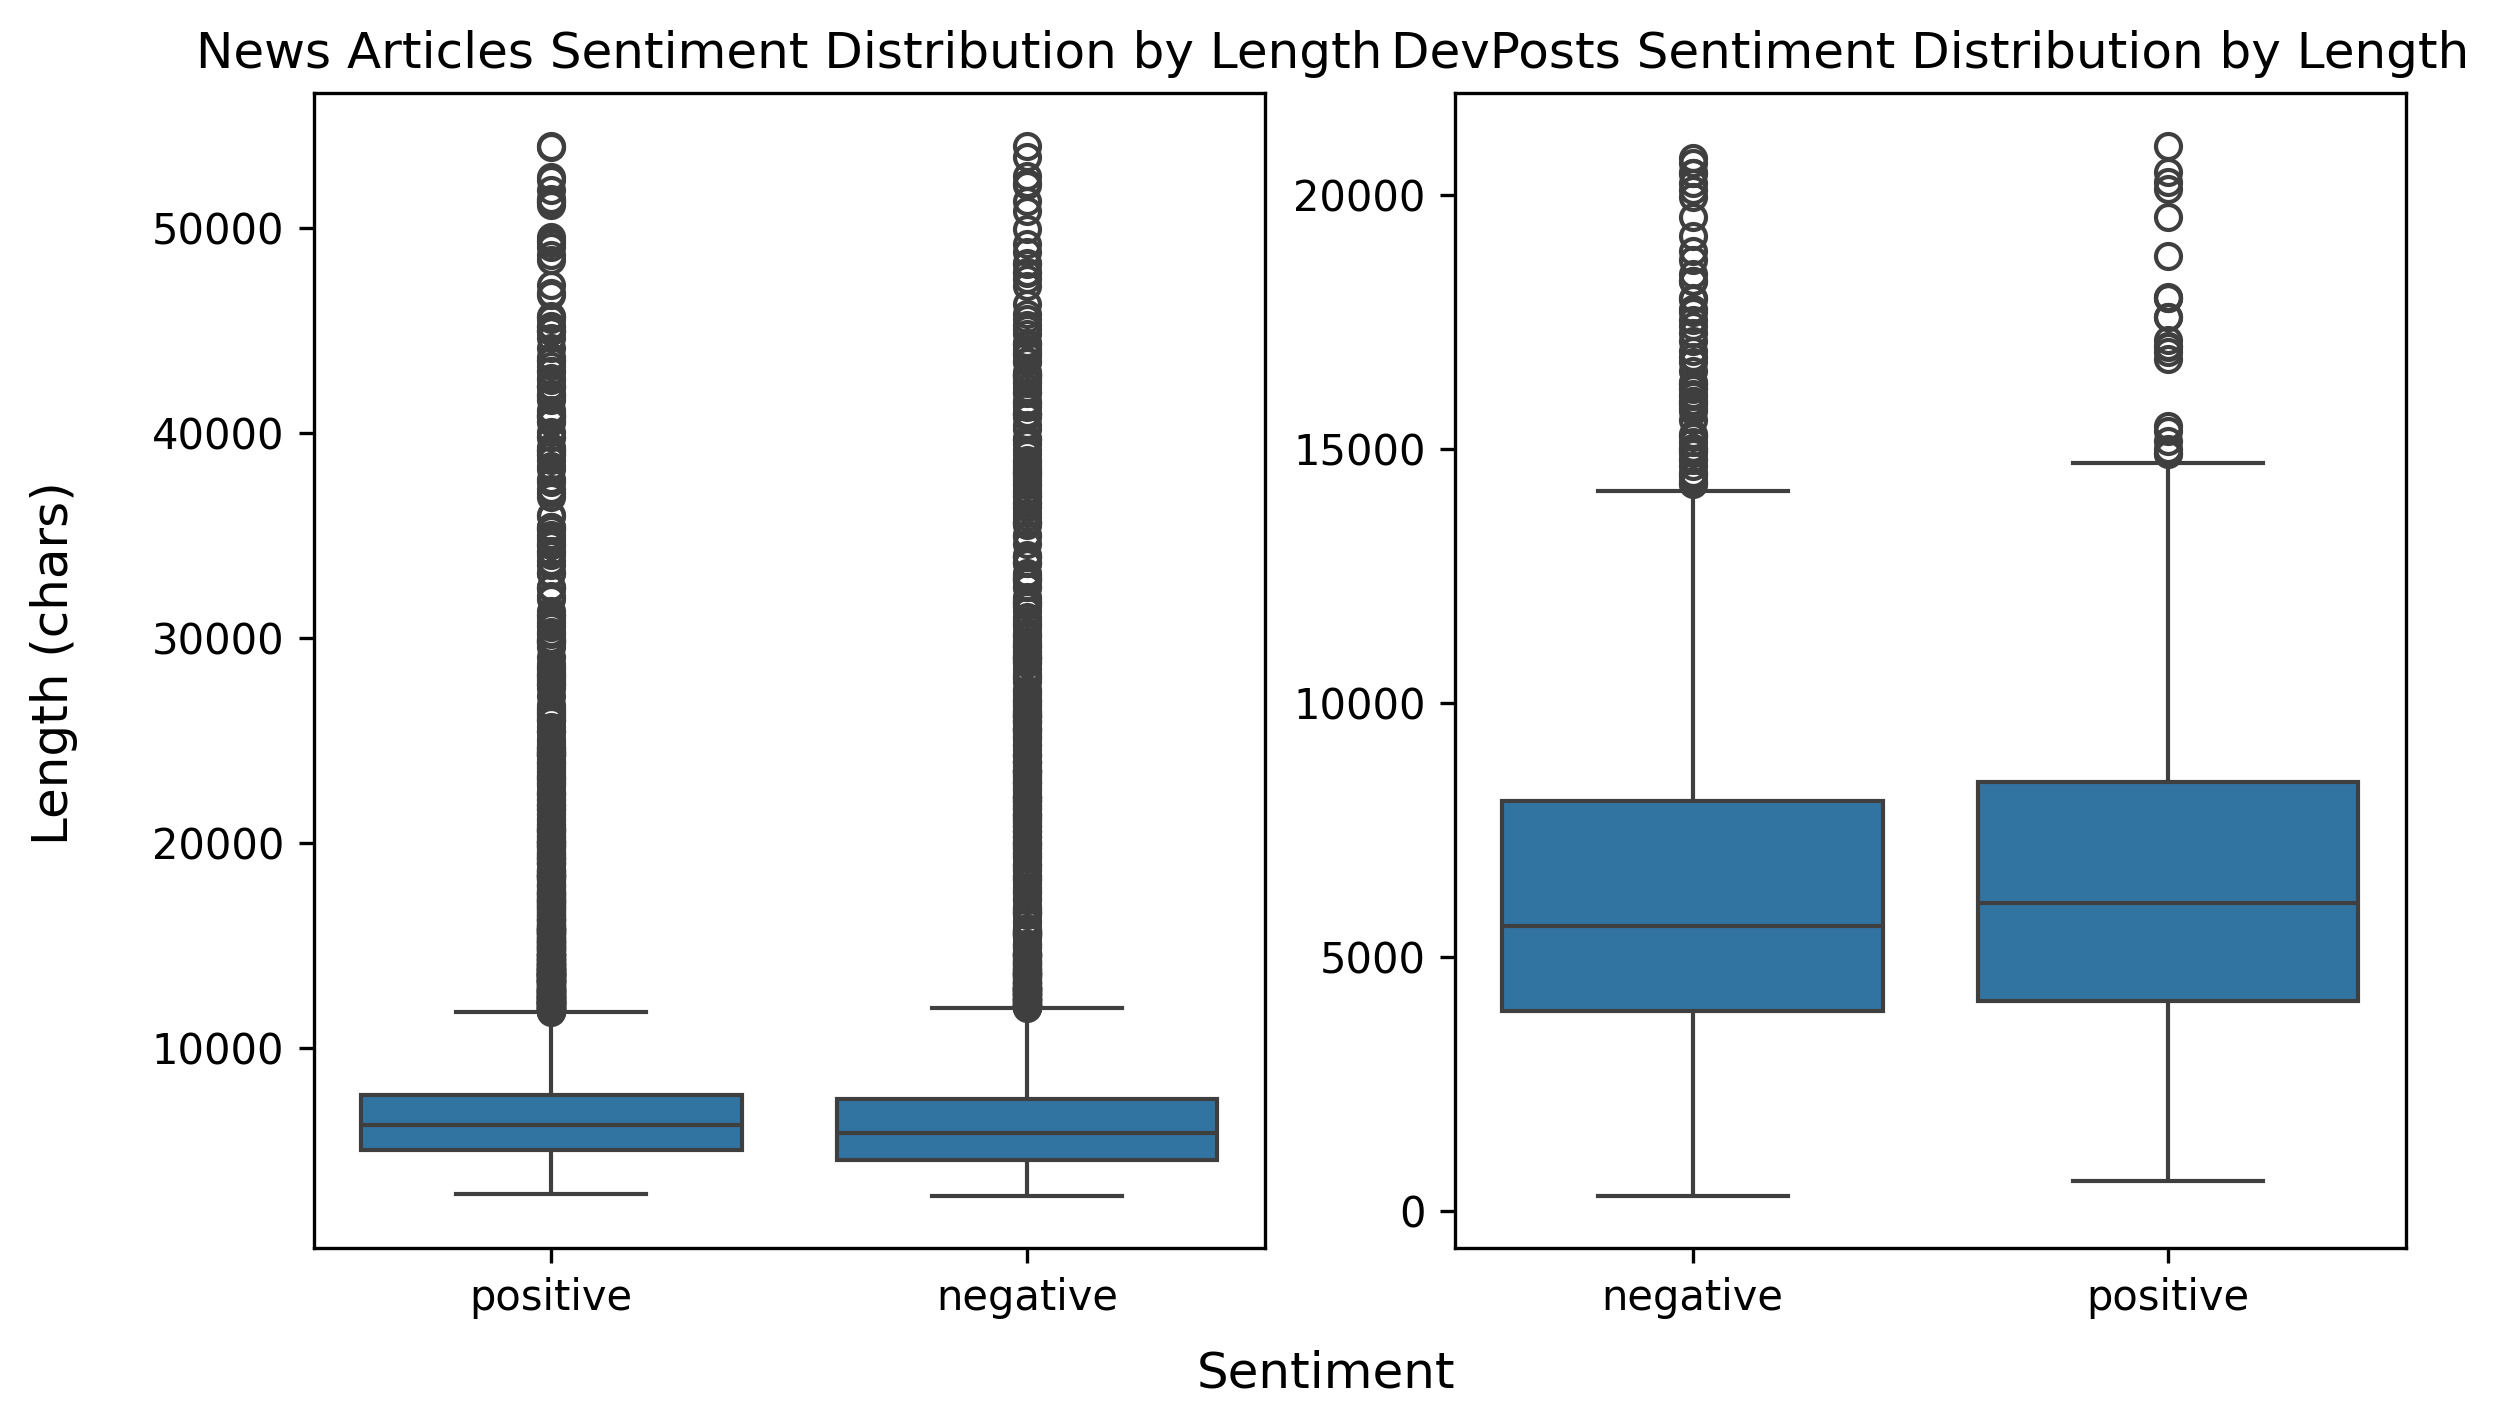
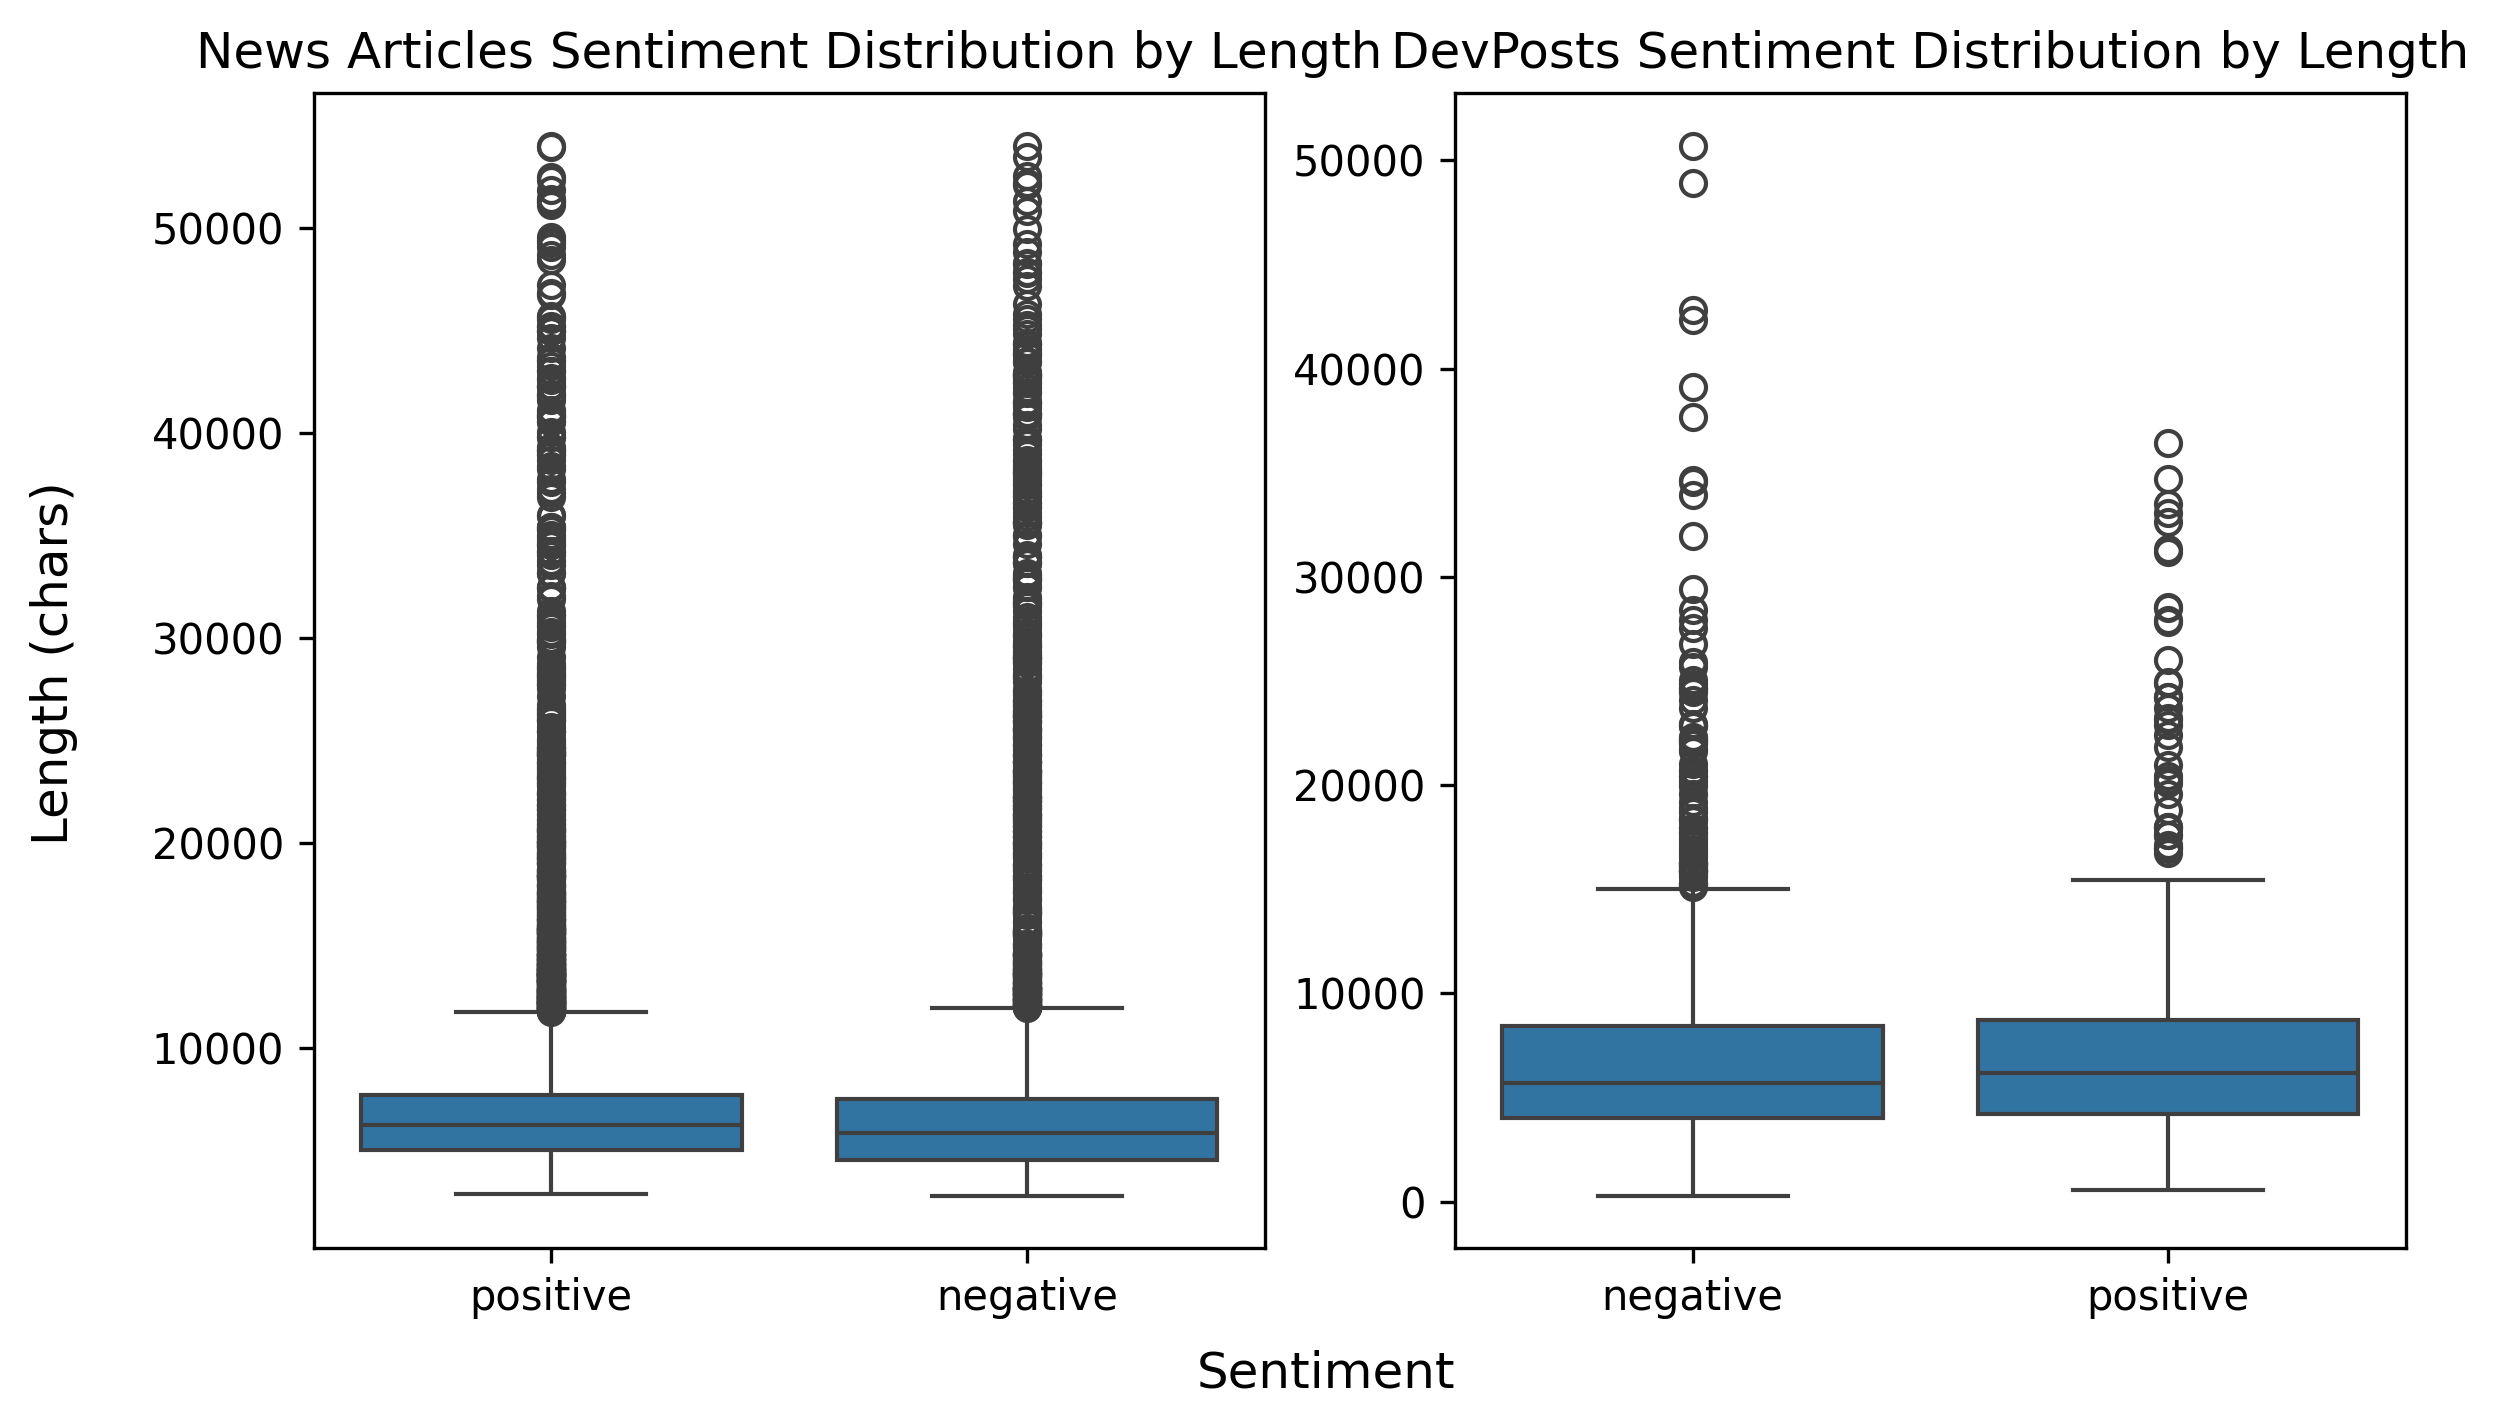
Add visualization 2

diff --git a/webbapp/frontend/visualizations/visualization_2.html b/webbapp/frontend/visualizations/visualization_2.html
@@ -54,21 +54,23 @@
           </div>
         </nav>
         <div class="row">
-            <div class="col-lg-4 form">
+            <h2>Dev Post Sentiment Analysis by Topic</h2>
+            <div class="col-lg-6 form">
 
-                <label class="form-label" id="output_sentiment_threshold" for="sentiment_threshold">Sentiment Threshold: 0</label>
-                <input class="form-range" type="range" id="sentiment_threshold" name="sentiment_threshold" min="-1" max="1" step="0.1" oninput="update_slider_output('sentiment_threshold', 'Sentiment Threshold: ')"/>
+                <label for="topic-choice">Choose A Model:</label>
+                <select id="topic-choice" class="form-control" name="topic-choice">
+                  <option value="-1">All</option>
+                  <option value="0">code, software, development</option>
+                  <option value="1">models, model, google</option>
+                  <option value="2">just, like, work</option>
+                  <option value="3">learning, machine, artificial</option>
+                  <option value="4">enterprise, 2025, artificial</option>
+                </select>
 
-                <label class="form-label" id="output_news_length_threshold" for="news_length_threshold">News Length Threshold: 55000</label>
-                <input class="form-range" type="range" id="news_length_threshold" name="news_length_threshold" min="10000" max="100000" step="1000" oninput="update_slider_output('news_length_threshold', 'News Length Threshold: ')"/>
-
-                <label class="form-label" id="output_devposts_length_threshold" for="devposts_length_threshold">DevPost Length Threshold: 55000</label>
-                <input class="form-range" type="range" id="devposts_length_threshold" name="devposts_length_threshold" min="10000" max="100000" step="1000" oninput="update_slider_output('devposts_length_threshold', 'DevPost Length Threshold: ')"/>
-
-                <button class="btn btn-primary" id="run_model" onclick="generate_sen_by_len_chart()">Generate Graph</button>
+                <button class="btn btn-primary" id="run_model" onclick="generate_sen_by_topic_chart()">Generate Graph</button>
             </div>
-            <div id="sen_by_len" class="col-lg-8 align-self-center align-items-center px-5">
-                <img src="../frontend/images/default_sentiment_dist_over_length.png?t=213435" alt="Placeholder Image" class="img-fluid">
+            <div id="sen_by_topic" class="col-lg-6 align-self-center align-items-center">
+                <img src="../frontend/images/default_sentiment_by_topic.png?t=213435" alt="Placeholder Image" class="img-fluid">
             </div>
         </div>
     </div>

diff --git a/webbapp/frontend/app.js b/webbapp/frontend/app.js
@@ -55,3 +55,13 @@ async function generate_sen_by_len_chart() {
 
     await generate_chart("sen_by_len", params)
 }
+
+async function generate_sen_by_topic_chart() {
+    let topic_choice = $("#topic-choice").val()
+
+    let params = {
+        "topic_choice": topic_choice,
+    }
+
+    await generate_chart("sen_by_topic", params)
+}

diff --git a/webbapp/frontend/visualizations/visualization_1.html b/webbapp/frontend/visualizations/visualization_1.html
@@ -54,6 +54,7 @@
           </div>
         </nav>
         <div class="row">
+            <h2>Sentiment Analysis by Text Length</h2>
             <div class="col-lg-4 form">
 
                 <label class="form-label" id="output_sentiment_threshold" for="sentiment_threshold">Sentiment Threshold: 0</label>

diff --git a/webbapp/backend/charting_functions.py b/webbapp/backend/charting_functions.py
@@ -5,6 +5,7 @@ import seaborn as sns
 from sqlite3 import connect
 
 DB_FILE = "../../db.sqlite"
+TOPIC_LIST = ["code, software, development", "models, model, google", "just, like, work", "learning, machine, artificial", "enterprise, 2025, artificial"]
 plt_use("agg")
 
 def get_sentiment_dist_over_length(table_name, column, date_column, sentiment_threshold=0.0, length_threshold=500000):
@@ -49,8 +50,42 @@ def generate_sen_by_len_chart(data, filename="sentiment_dist_over_length.png"):
 
     chart_filepath = f"../frontend/images/{filename}"
     fig.savefig(chart_filepath, dpi=300, bbox_inches="tight")
+    fig.clear()
+    plt.close(fig)
     return chart_filepath
 
 
+def get_sent_by_topic(topic_choice):
+    query = f"""SELECT SUM(IF(roberta_pos_score - roberta_neg_score >= 0, 1, 0)) * 100 / count(*) positive,
+            SUM(IF(roberta_pos_score - roberta_neg_score <= 0, 1, 0)) * 100 / count(*) negative
+                    FROM DevPosts
+                    WHERE dominant_topic {'=' if topic_choice != -1 else '!='} {topic_choice}
+                    GROUP BY dominant_topic;"""
+    conn = connect(DB_FILE)
 
+    df = read_sql(query, conn).transpose()
+    conn.close()
+    return df
+
+
+def generate_sen_by_topic(data, filename="sentiment_by_topic.png"):
+    topic_choice = int(data["params"].get("topic_choice", "-1"))
+
+    df = get_sent_by_topic(topic_choice)
+    if topic_choice == -1:
+        df[0] = df.sum(axis=1)
+        df = df[[0]]
+
+    plt.pie(df[0], labels=["Positive", "Negative"], autopct="%1.1f%%")
+    if topic_choice != -1:
+        plt.title("Developer Posts Sentiment Analysis Percentage by Topic")
+        plt.figtext(0.33, 0.05, f"Topic Keywords: {TOPIC_LIST[int(topic_choice)]}")
+    else:
+        plt.title("Developer Posts Sentiment Analysis Percentage")
+
+    chart_filepath = f"../frontend/images/{filename}"
+    plt.savefig(chart_filepath, dpi=300, bbox_inches="tight")
+    plt.close()
+
+    return chart_filepath
 

diff --git a/webbapp/backend/backend.py b/webbapp/backend/backend.py
@@ -1,8 +1,7 @@
 from flask import Flask, request, jsonify, make_response
 from flask_cors import CORS
-from os import getcwd
 
-from charting_functions import generate_sen_by_len_chart
+from charting_functions import generate_sen_by_len_chart, generate_sen_by_topic
 
 app = Flask(__name__)
 # CORS(app, resources={r"/*": {"origins": "https://unaccusing-georgeanna-triboelectric.ngrok-free.dev",}}, supports_credentials=True)
@@ -11,6 +10,7 @@ CORS(app, resources={r"/*": {"origins": "http://localhost:5001",}}, supports_cre
 
 chart_dict = {
     "sen_by_len": generate_sen_by_len_chart,
+    "sen_by_topic": generate_sen_by_topic,
 }
 
 @app.route('/', methods=['GET'])
@@ -57,7 +57,7 @@ def generate_chart():
             'error': str(e)}), 500
 
 @app.route('/frontend/images/<path:filename>', methods=['GET'])
-def sen_by_len_chart(filename):
+def serve_chart_image(filename):
     print(f"Getting image: {filename}")
     with open(f"../frontend/images/{filename}", "rb") as f:
         image_content = f.read()
